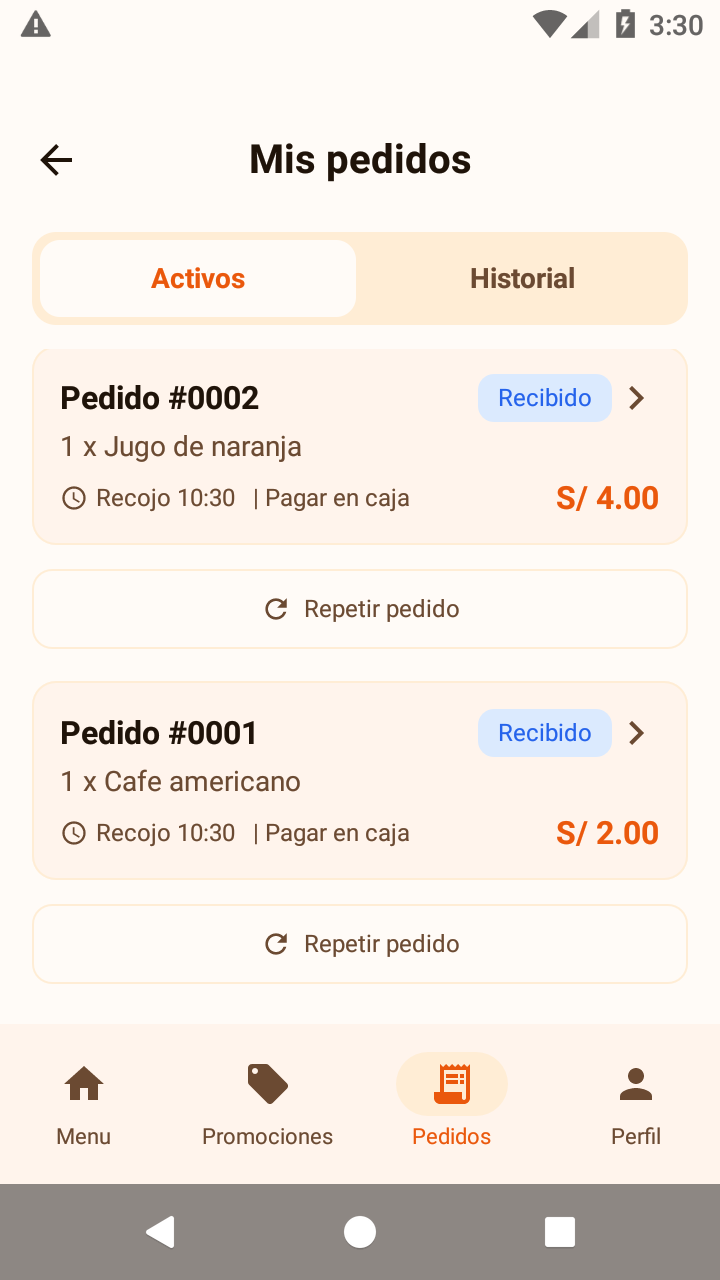
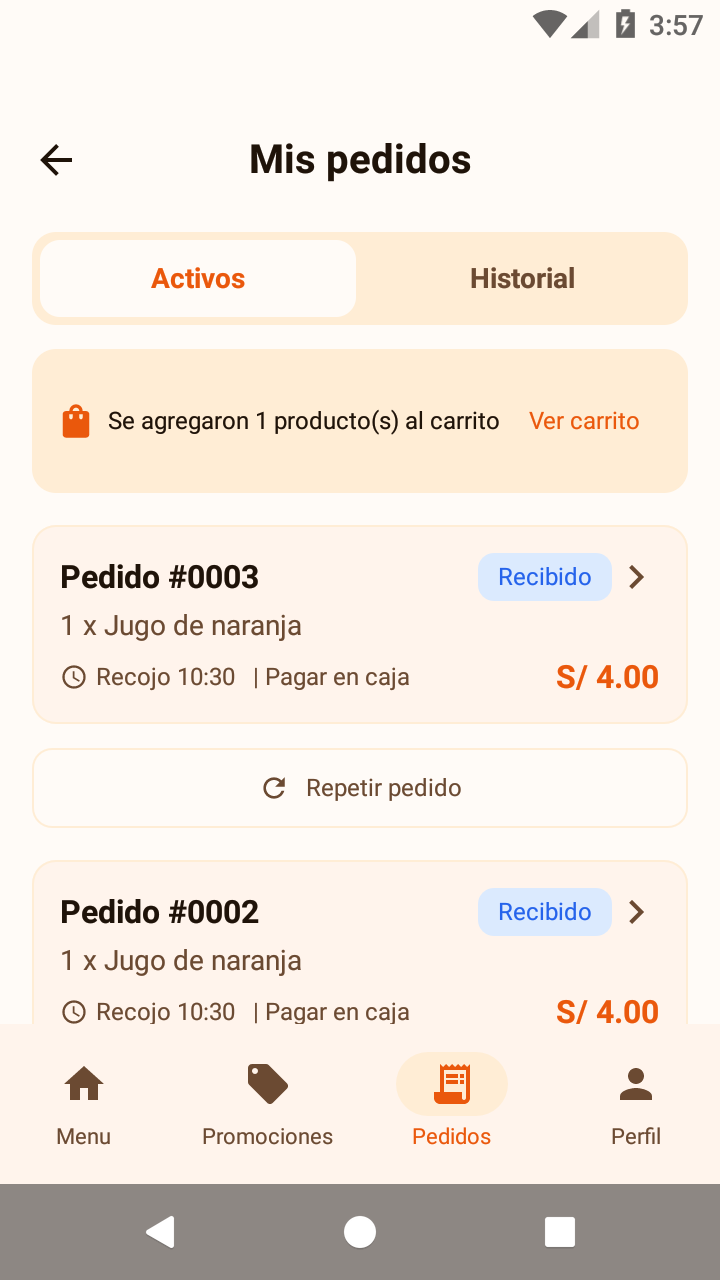
arreglando: el boton Repetir pedido no avisaba lo que hacia
El boton si metia los productos en el carrito, pero el mensaje del
ViewModel no llegaba a la pantalla, asi que el estudiante lo presionaba
y no passages nada. Parecia un boton inútil.

- NavCafe pasa el mensaje del ViewModel a MisPedidosScreen (antes se
  leia y se descartaba).
- MisPedidosScreen muestra un banner con el aviso y un boton 'Ver
  carrito' que lleva a la pantalla de confirmar.
- El texto del boton ya no empieza con espacios: se usa un Spacer,
  para que se pueda encontrar por accesibilidad y con las pruebas
  automaticas.

Verificado en el emulador: al presionar 'Repetir pedido' aparece
'Se agregaron 1 producto(s) al carrito' y el boton 'Ver carrito' lleva
al carrito con el producto.

diff --git a/Semana08/CafeCampus(Con-IA)/app/src/main/java/com/huaman/cafecampus/ui/cliente/MisPedidosScreen.kt b/Semana08/CafeCampus(Con-IA)/app/src/main/java/com/huaman/cafecampus/ui/cliente/MisPedidosScreen.kt
@@ -1,9 +1,12 @@
 package com.huaman.cafecampus.ui.cliente
 
 import androidx.compose.animation.AnimatedContent
+import androidx.compose.animation.AnimatedVisibility
 import androidx.compose.animation.core.tween
+import androidx.compose.animation.expandVertically
 import androidx.compose.animation.fadeIn
 import androidx.compose.animation.fadeOut
+import androidx.compose.animation.shrinkVertically
 import androidx.compose.animation.slideInHorizontally
 import androidx.compose.animation.togetherWith
 import androidx.compose.foundation.background
@@ -13,10 +16,12 @@ import androidx.compose.foundation.layout.Box
 import androidx.compose.foundation.layout.Column
 import androidx.compose.foundation.layout.PaddingValues
 import androidx.compose.foundation.layout.Row
+import androidx.compose.foundation.layout.Spacer
 import androidx.compose.foundation.layout.fillMaxSize
 import androidx.compose.foundation.layout.fillMaxWidth
 import androidx.compose.foundation.layout.padding
 import androidx.compose.foundation.layout.size
+import androidx.compose.foundation.layout.width
 import androidx.compose.foundation.lazy.LazyColumn
 import androidx.compose.foundation.lazy.items
 import androidx.compose.foundation.shape.RoundedCornerShape
@@ -24,6 +29,7 @@ import androidx.compose.material.icons.Icons
 import androidx.compose.material.icons.automirrored.filled.ReceiptLong
 import androidx.compose.material.icons.filled.History
 import androidx.compose.material.icons.filled.Refresh
+import androidx.compose.material.icons.filled.ShoppingBag
 import androidx.compose.material3.Icon
 import androidx.compose.material3.MaterialTheme
 import androidx.compose.material3.OutlinedButton
@@ -59,8 +65,10 @@ fun MisPedidosScreen(
     historicos: List<PedidoConDetalle>,
     onPedido: (Int) -> Unit,
     modifier: Modifier = Modifier,
+    mensaje: String? = null,
     onRepetir: (PedidoConDetalle) -> Unit = {},
     onIrAlMenu: () -> Unit = {},
+    onIrAlCarrito: () -> Unit = {},
     onAtras: () -> Unit = {}
 ) {
     var pestañaActiva by remember { mutableStateOf(0) } // 0 = Activos, 1 = Historial
@@ -75,6 +83,40 @@ fun MisPedidosScreen(
             onSeleccion = { pestañaActiva = it },
             modifier = Modifier.padding(horizontal = 16.dp)
         )
+
+        // Aviso: al repetir un pedido, el ViewModel dice cuantos productos
+        // se agregaron (o por que no se pudo).
+        AnimatedVisibility(
+            visible = mensaje != null,
+            enter = fadeIn(animationSpec = tween(200)) + expandVertically(),
+            exit = fadeOut(animationSpec = tween(160)) + shrinkVertically()
+        ) {
+            Row(
+                modifier = Modifier
+                    .fillMaxWidth()
+                    .padding(horizontal = 16.dp)
+                    .clip(RoundedCornerShape(12.dp))
+                    .background(MaterialTheme.colorScheme.primaryContainer)
+                    .padding(12.dp),
+                verticalAlignment = Alignment.CenterVertically
+            ) {
+                Icon(
+                    imageVector = Icons.Filled.ShoppingBag,
+                    contentDescription = null,
+                    modifier = Modifier.size(20.dp),
+                    tint = MaterialTheme.colorScheme.primary
+                )
+                Text(
+                    text = "  " + (mensaje ?: ""),
+                    style = MaterialTheme.typography.bodySmall,
+                    color = MaterialTheme.colorScheme.onSurface,
+                    modifier = Modifier.weight(1f)
+                )
+                TextButton(onClick = onIrAlCarrito) {
+                    Text("Ver carrito", style = MaterialTheme.typography.labelMedium)
+                }
+            }
+        }
 
         // Transicion animada entre las pestanas: la lista nueva entra con un
         // fade corto y un deslizamiento lateral.
@@ -178,8 +220,9 @@ private fun TarjetaPedidoConAcciones(
                     contentDescription = null,
                     modifier = Modifier.size(16.dp)
                 )
+                Spacer(modifier = Modifier.width(8.dp))
                 Text(
-                    text = "  Repetir pedido",
+                    text = "Repetir pedido",
                     style = MaterialTheme.typography.labelMedium
                 )
             }

diff --git a/Semana08/CafeCampus(Con-IA)/app/src/main/java/com/huaman/cafecampus/ui/navigation/NavCafe.kt b/Semana08/CafeCampus(Con-IA)/app/src/main/java/com/huaman/cafecampus/ui/navigation/NavCafe.kt
@@ -337,12 +337,19 @@ fun NavCafe(
                 MisPedidosScreen(
                     activos = activos,
                     historicos = historicos,
+                    mensaje = mensaje,
                     onPedido = { id -> navController.navigate(Rutas.seguimiento(id)) },
                     onRepetir = { pedido ->
                         pedidosCliente.repetirPedido(pedido)
                     },
                     onIrAlMenu = {
                         navController.navigate(Rutas.MENU) {
+                            popUpTo(Rutas.MENU) { inclusive = true }
+                            launchSingleTop = true
+                        }
+                    },
+                    onIrAlCarrito = {
+                        navController.navigate(Rutas.CONFIRMAR_PEDIDO) {
                             popUpTo(Rutas.MENU) { inclusive = true }
                             launchSingleTop = true
                         }
